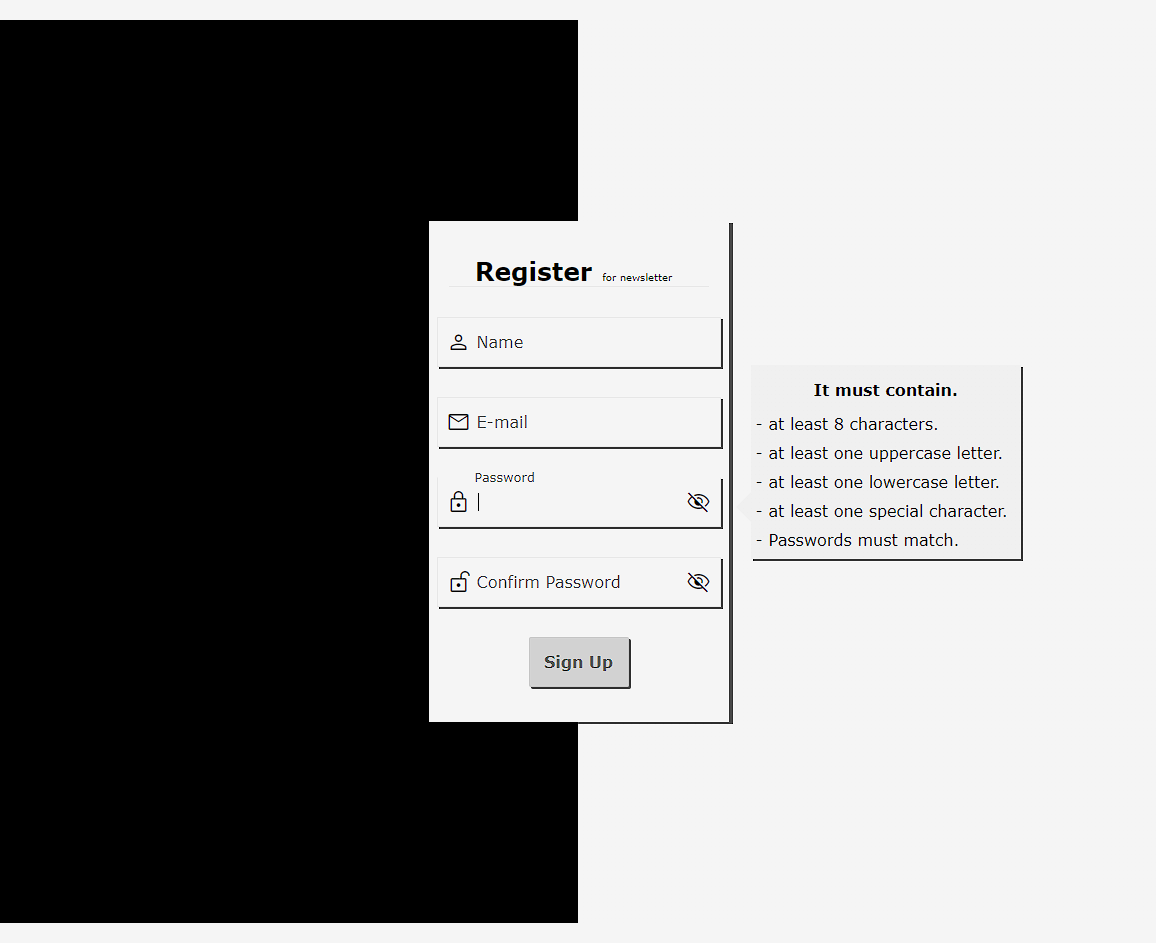
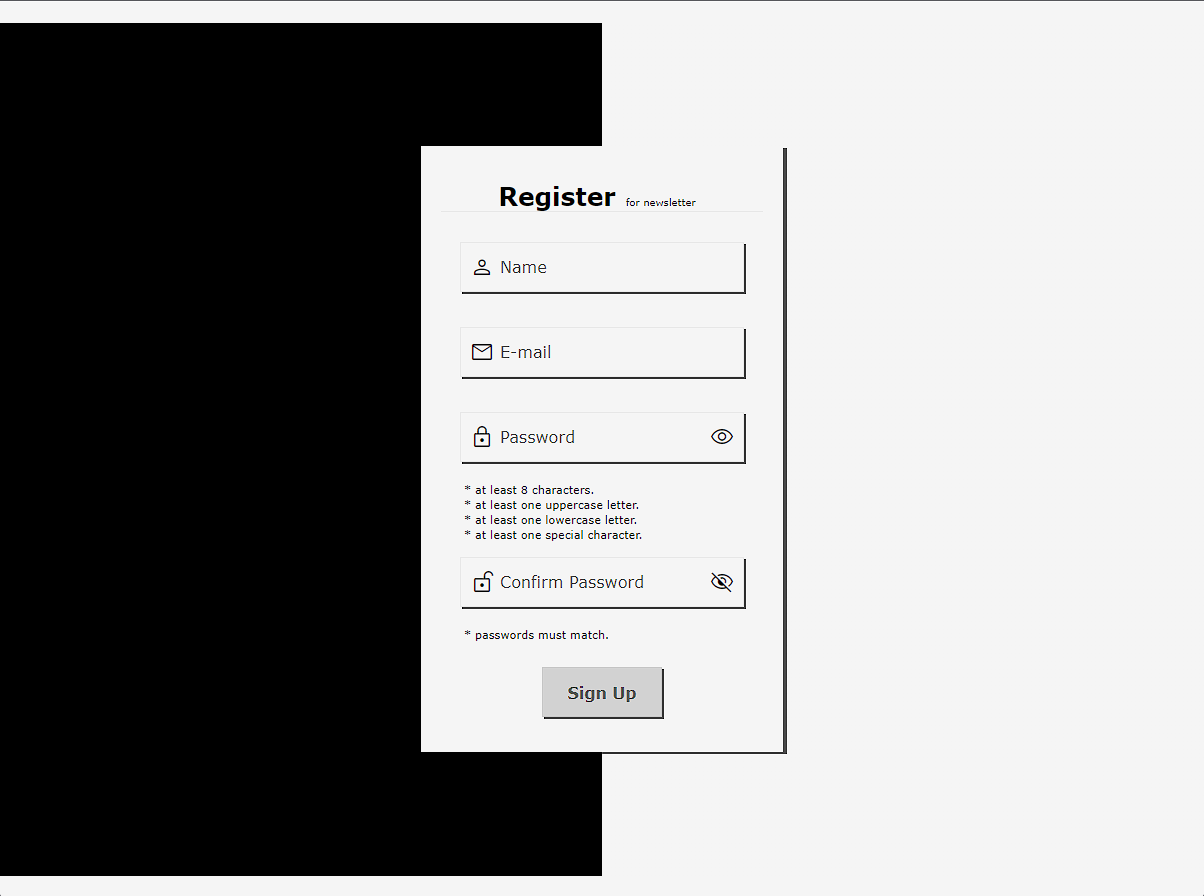
introducing sample imgs

Changed region(s): [[0.3426, 0.1562, 0.872, 0.8438], [0.0, 0.0, 0.4983, 0.0312]]

diff --git a/README.md b/README.md
@@ -9,3 +9,5 @@
 - JavaScript puro
 
 ![form example](./assets/img/form.png)
+![form example completed](./assets/img/formCompleted.png)
+![form example pupup](./assets/img/popup.png)
